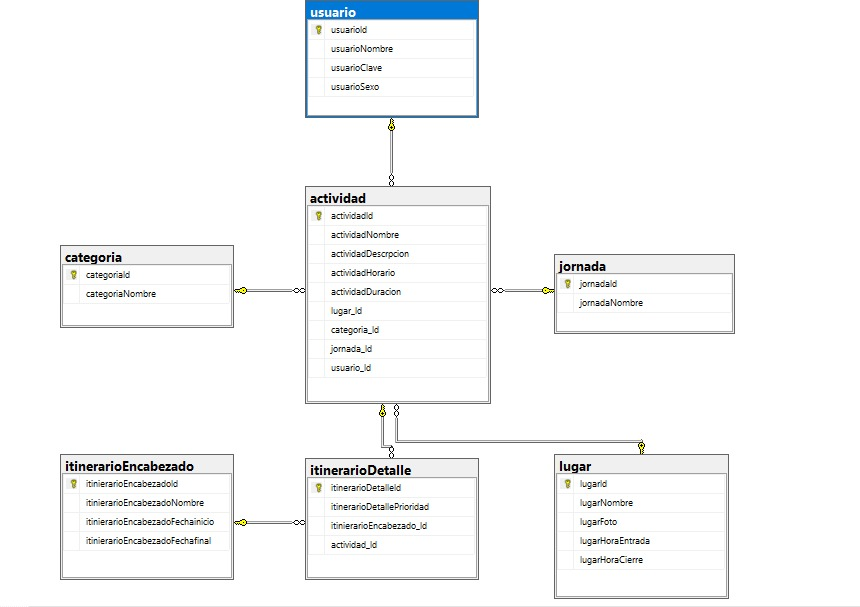
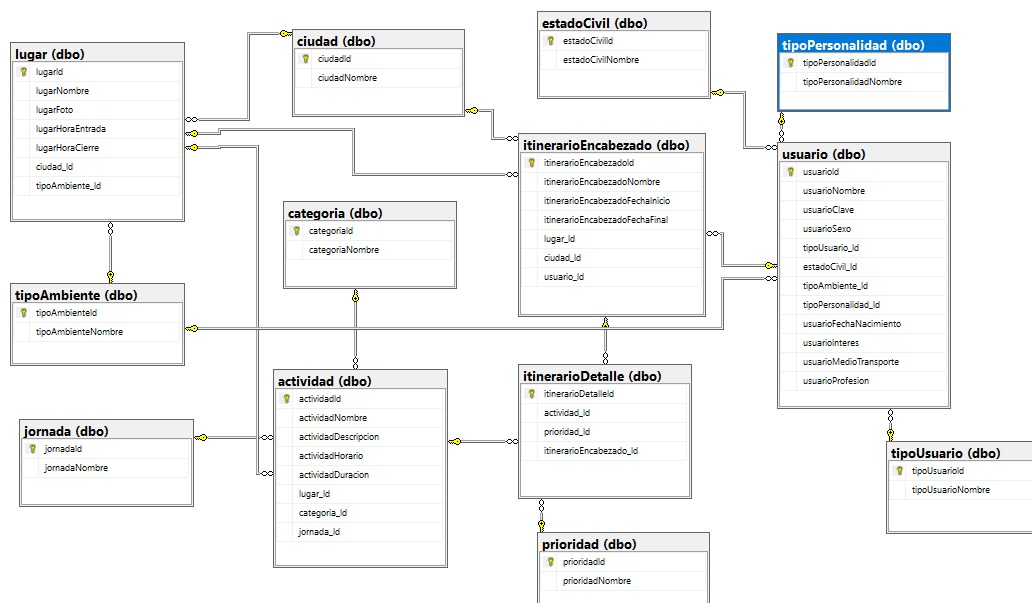
add usuarios y modelos

Changed region(s): [[0.0, 0.0, 1.0, 1.0]]

diff --git a/src/app/usuario/usuario.page.html b/src/app/usuario/usuario.page.html
@@ -1,0 +1,77 @@
+<ion-header no-border>
+  <ion-toolbar>
+    <ion-buttons slot="start">
+      <ion-back-button defaultHref="/"></ion-back-button>
+    </ion-buttons>
+    <ion-title>REGISTRATE</ion-title>
+  </ion-toolbar>
+</ion-header>
+
+<ion-content class="ion-padding">
+
+  <form #formulario="ngForm">
+    <ion-item>
+      <ion-label position="floating" color="medium"> Nombre</ion-label>
+      <ion-input type="text" name="nombre" [(ngModel)]="usuario.usuarioNombre" required></ion-input>
+    </ion-item>
+    <ion-item>
+      <ion-label position="floating" color="medium">Password</ion-label>
+      <ion-input type="password" minlength="4" maxlength="10" [(ngModel)]="usuario.usuarioClave" name="password"
+        required>
+      </ion-input>
+    </ion-item>
+
+
+    <ion-item>
+      <ion-radio-group name="sexo" [(ngModel)]="usuario.usuarioSexo">
+        <ion-label color="medium">Sexo</ion-label>
+        <ion-grid>
+          <ion-row>
+            <ion-col size="6">
+              <ion-item>
+                <ion-label style="font-size: smaller;">Femenino</ion-label>
+                <ion-radio value="F"></ion-radio>
+              </ion-item>
+            </ion-col>
+            <ion-col size="6">
+              <ion-item>
+                <ion-label style="font-size: smaller;">Masculino</ion-label>
+                <ion-radio value="M"></ion-radio>
+              </ion-item>
+            </ion-col>
+          </ion-row>
+        </ion-grid>
+      </ion-radio-group>
+    </ion-item>
+
+    <ion-item>
+      <ion-label position="floating" color="medium">Fecha Nacimiento</ion-label>
+      <ion-datetime [(ngModel)]="usuario.usuarioFechaNacimiento" display-format="YYYY MM DD"></ion-datetime>
+    </ion-item>
+
+    <br>
+    <br>
+    <ion-button size="small" expand="full" fill="solid" type="submit" (click)="onSubmit(usuario)"
+      [disabled]="formulario.invalid">
+      <ion-icon slot="start" name="contact"></ion-icon> CREAR
+    </ion-button>
+
+  </form>
+
+  <!-- 
+  <form #formulario="ngForm" (ngSubmit)="onSubmit()">
+    <ion-item>
+      <ion-label position="floating">Nombre<ion-text color="danger">*</ion-text>
+      </ion-label>
+      <ion-input required formControlName="email" type="text"></ion-input>
+    </ion-item>
+    <ion-item>
+      <ion-label position="floating">Password <ion-text color="danger">*</ion-text>
+      </ion-label>
+      <ion-input required formControlName="password" type="text"></ion-input>
+    </ion-item>
+    <ion-button block color="primary" type="submit" [disabled]="formulario.invalid">
+      Crear cuenta
+    </ion-button>
+  </form> -->
+</ion-content>

diff --git a/src/app/Modelos/usuario.ts b/src/app/Modelos/usuario.ts
@@ -1,0 +1,68 @@
+// export interface Usuario {
+//   usuarioId: number;
+//   usuarioNombre: string;
+//   usuarioClave: string;
+//   usuarioSexo: string;
+//   usuarioFechaNacimiento?: string;
+//   usuarioMedioTransporte?: string;
+//   usuarioProfesion?: string;
+//   usuarioInteres?: string;
+//   tipoUsuario_Id?: number;
+//   tipoPersonalidad_Id?: number;
+//   estadoCivil_Id?: number;
+//   tipoAmbiente_Id?: number;
+//   tipoUsuario?: any;
+//   tipoPersonalidad?: any;
+//   estadoCivil?: any;
+//   tipoAmbiente?: any;
+//   itinerarioEncabezados?: any;
+// }
+
+export class Usuario {
+  usuarioId: number;
+  usuarioNombre: string;
+  usuarioClave: string;
+  usuarioSexo: string;
+  usuarioFechaNacimiento?: string;
+  usuarioMedioTransporte?: string;
+  usuarioProfesion?: string;
+  usuarioInteres?: string;
+  tipoUsuario_Id?: number;
+  tipoPersonalidad_Id?: number;
+  estadoCivil_Id?: number;
+  tipoAmbiente_Id?: number;
+
+  itinerarioEncabezados?: any;
+
+  constructor(
+    usuarioId: number,
+    usuarioNombre: string,
+    usuarioClave: string,
+    usuarioSexo: string,
+    usuarioFechaNacimiento?: string,
+    usuarioMedioTransporte?: string,
+    usuarioProfesion?: string,
+    usuarioInteres?: string,
+    tipoUsuario_Id?: number,
+    tipoPersonalidad_Id?: number,
+    estadoCivil_Id?: number,
+    tipoAmbiente_Id?: number,
+    itinerarioEncabezados?: any
+  ) {
+
+    this.usuarioId = usuarioId;
+    this.usuarioNombre = usuarioNombre;
+    this.usuarioClave = usuarioClave;
+    this.usuarioSexo = usuarioSexo;
+    this.usuarioFechaNacimiento = usuarioFechaNacimiento;
+    this.usuarioMedioTransporte = usuarioMedioTransporte;
+    this.usuarioProfesion = usuarioProfesion;
+    this.usuarioInteres = usuarioInteres;
+    this.tipoUsuario_Id = tipoUsuario_Id;
+    this.tipoPersonalidad_Id = tipoPersonalidad_Id;
+    this.estadoCivil_Id = estadoCivil_Id;
+    this.tipoAmbiente_Id = tipoAmbiente_Id;
+    this.itinerarioEncabezados = itinerarioEncabezados;
+
+  }
+}

diff --git a/src/app/login/login.page.html b/src/app/login/login.page.html
@@ -1,15 +1,19 @@
 <ion-content class="ion-padding">
-      <ion-img src="/assets/Logo.svg" style="width: 269.92px; height: 60.75px; margin: 0 auto;"></ion-img>
-    
-      <ion-item>
-        <ion-label style="color: lightgrey" position="floating">Correo</ion-label>
-        <ion-input type="text"></ion-input>
-      </ion-item>
-      <ion-item>
-        <ion-label style="color: lightgrey" position="floating">Contraseña</ion-label>
-        <ion-input type="password"></ion-input>
-      </ion-item>
-      <br>
-    <ion-button expand="block" color="primary" routerLink="/dashboard/tabs/tab1">Login</ion-button>
+  <ion-img src="/assets/Logo.svg" style="width: 269.92px; height: 60.75px; margin: 0 auto;"></ion-img>
+
+  <ion-item>
+    <ion-label style="color: lightgrey" position="floating">Correo</ion-label>
+    <ion-input type="text"></ion-input>
+  </ion-item>
+  <ion-item>
+    <ion-label style="color: lightgrey" position="floating">Contraseña</ion-label>
+    <ion-input type="password"></ion-input>
+  </ion-item>
+  <br>
+  <ion-button mode="md" size="small" fill="clear" routerLink="/usuario"> Aún no tienes cuenta </ion-button>
+  <br>
+  <ion-button expand="block" color="primary" routerLink="/dashboard/tabs/tab1">Login</ion-button>
+
 </ion-content>
+
 <ion-img src="/assets/isotipo.svg"></ion-img>

diff --git a/src/app/app.module.ts b/src/app/app.module.ts
@@ -5,16 +5,17 @@ import { RouteReuseStrategy } from '@angular/router';
 import { IonicModule, IonicRouteStrategy } from '@ionic/angular';
 import { SplashScreen } from '@ionic-native/splash-screen/ngx';
 import { StatusBar } from '@ionic-native/status-bar/ngx';
-
+import { FormsModule, ReactiveFormsModule } from '@angular/forms';
 import { AppRoutingModule } from './app-routing.module';
 import { AppComponent } from './app.component';
 
 import { HttpClientModule } from '@angular/common/http';
 
+
 @NgModule({
   declarations: [AppComponent],
   entryComponents: [],
-  imports: [BrowserModule, IonicModule.forRoot(), HttpClientModule, AppRoutingModule],
+  imports: [BrowserModule, IonicModule.forRoot(), HttpClientModule, AppRoutingModule, FormsModule, ReactiveFormsModule],
   providers: [
     StatusBar,
     SplashScreen,

diff --git a/src/app/usuario/usuario.page.ts b/src/app/usuario/usuario.page.ts
@@ -1,0 +1,32 @@
+import { Component, OnInit } from '@angular/core';
+import { UsuarioService } from '../Services/usuario.service';
+import { Usuario } from '../Modelos/usuario';
+
+@Component({
+  selector: 'app-usuario',
+  templateUrl: './usuario.page.html',
+  styleUrls: ['./usuario.page.scss'],
+})
+export class UsuarioPage implements OnInit {
+
+  usuario: Usuario;
+  constructor(private usuarioService: UsuarioService) { }
+
+  ngOnInit() {
+
+
+    this.usuarioService.getUsuario().subscribe(
+      data => {
+        console.log(data);
+
+      }
+    );
+  }
+
+  onSubmit(usuario) {
+    console.log(usuario);
+
+
+  }
+
+}

diff --git a/src/app/usuario/usuario.module.ts b/src/app/usuario/usuario.module.ts
@@ -1,0 +1,21 @@
+import { NgModule } from '@angular/core';
+import { CommonModule } from '@angular/common';
+import { FormsModule, ReactiveFormsModule } from '@angular/forms';
+
+import { IonicModule } from '@ionic/angular';
+
+import { UsuarioPageRoutingModule } from './usuario-routing.module';
+
+import { UsuarioPage } from './usuario.page';
+
+@NgModule({
+  imports: [
+    CommonModule,
+    FormsModule,
+    ReactiveFormsModule,
+    IonicModule,
+    UsuarioPageRoutingModule
+  ],
+  declarations: [UsuarioPage]
+})
+export class UsuarioPageModule { }

diff --git a/src/app/Services/usuario.service.ts b/src/app/Services/usuario.service.ts
@@ -5,12 +5,18 @@ import { environment } from '../../environments/environment';
 @Injectable({
   providedIn: 'root'
 })
-export class CiudadService {
+export class UsuarioService {
 
   baseUrl = environment.baseUrl;
   constructor(private http: HttpClient) { }
 
-  getCiudades() {
-    return this.http.get<any[]>(this.baseUrl + 'ciudad');
+  postUsuario(usuario) {
+    return this.http.post(this.baseUrl + 'Usuario', usuario);
+
   }
+
+  getUsuario() {
+    return this.http.get(this.baseUrl + 'Usuario');
+  }
+
 }

diff --git a/src/app/usuario/usuario-routing.module.ts b/src/app/usuario/usuario-routing.module.ts
@@ -1,0 +1,17 @@
+import { NgModule } from '@angular/core';
+import { Routes, RouterModule } from '@angular/router';
+
+import { UsuarioPage } from './usuario.page';
+
+const routes: Routes = [
+  {
+    path: '',
+    component: UsuarioPage
+  }
+];
+
+@NgModule({
+  imports: [RouterModule.forChild(routes)],
+  exports: [RouterModule],
+})
+export class UsuarioPageRoutingModule {}

diff --git a/src/app/Modelos/actividad.ts b/src/app/Modelos/actividad.ts
@@ -1,0 +1,14 @@
+export  interface Actividad {
+    actividadId: number;
+    actividadNombre: string;
+    actividadDescripcion: string;
+    actividadHorario: string;
+    actividadDuracion: string;
+    lugar_Id: number;
+    categoria_Id: number;
+    jornada_Id: number;
+    categoria?: any;
+    jornada?: any;
+    lugar?: any;
+    itinerarioDetalles?: any;
+}

diff --git a/src/app/app-routing.module.ts b/src/app/app-routing.module.ts
@@ -25,6 +25,10 @@ const routes: Routes = [
   {
     path: 'prioridad-selector',
     loadChildren: () => import('./prioridad-selector/prioridad-selector.module').then( m => m.PrioridadSelectorPageModule)
+  },
+  {
+    path: 'usuario',
+    loadChildren: () => import('./usuario/usuario.module').then( m => m.UsuarioPageModule)
   }
 ];
 @NgModule({

diff --git a/src/app/Modelos/lugar.ts b/src/app/Modelos/lugar.ts
@@ -1,0 +1,13 @@
+export  interface Lugar {
+    lugarId: number;
+    lugarNombre: string;
+    lugarFoto: string;
+    lugarHoraEntrada: string;
+    lugarHoraCierre: string;
+    ciudad_Id: number;
+    tipoAmbiente_Id: number;
+    ciudad?: any;
+    tipoAmbiente?: any;
+    itinerarioEncabezado?: any;
+    actividades?: any;
+}

diff --git a/src/app/Services/actividad.service.ts b/src/app/Services/actividad.service.ts
@@ -11,6 +11,6 @@ export class ActividadService {
   constructor(private http: HttpClient) { }
 
   getActividades() {
-    return this.http.get<any[]>(this.baseUrl + '/actividad');
+    return this.http.get<any[]>(this.baseUrl + 'actividad');
   }
 }
